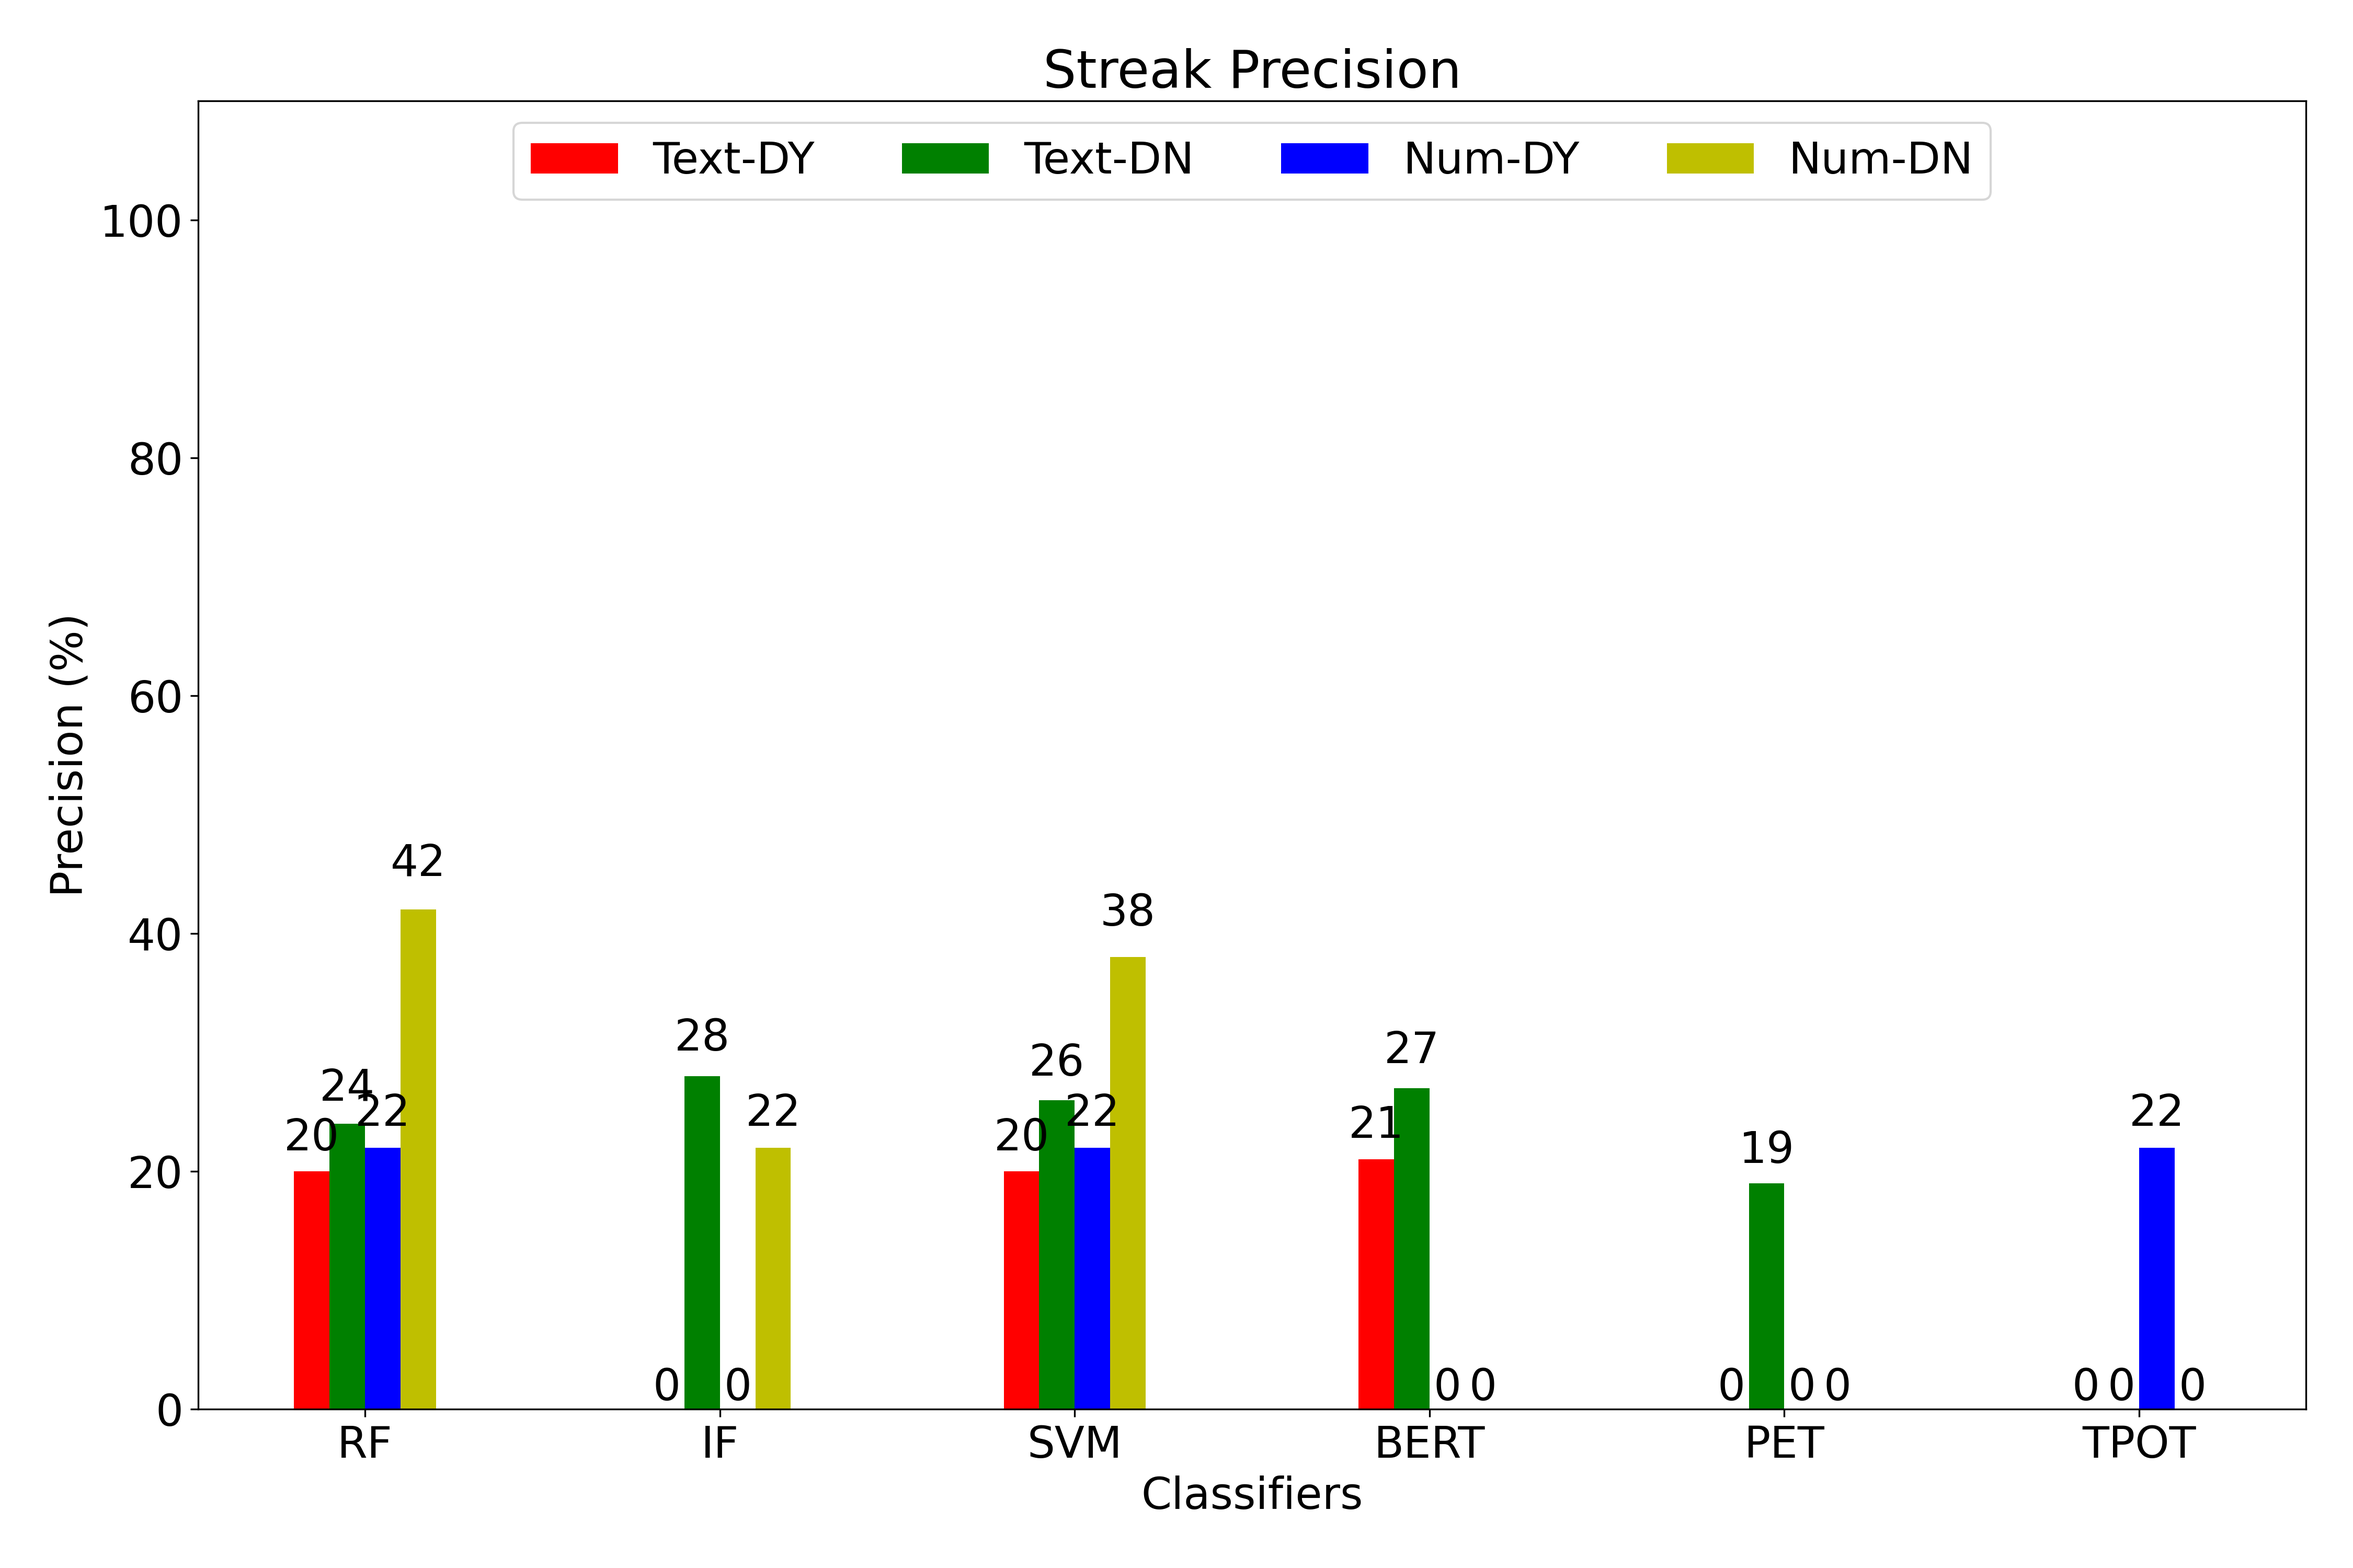
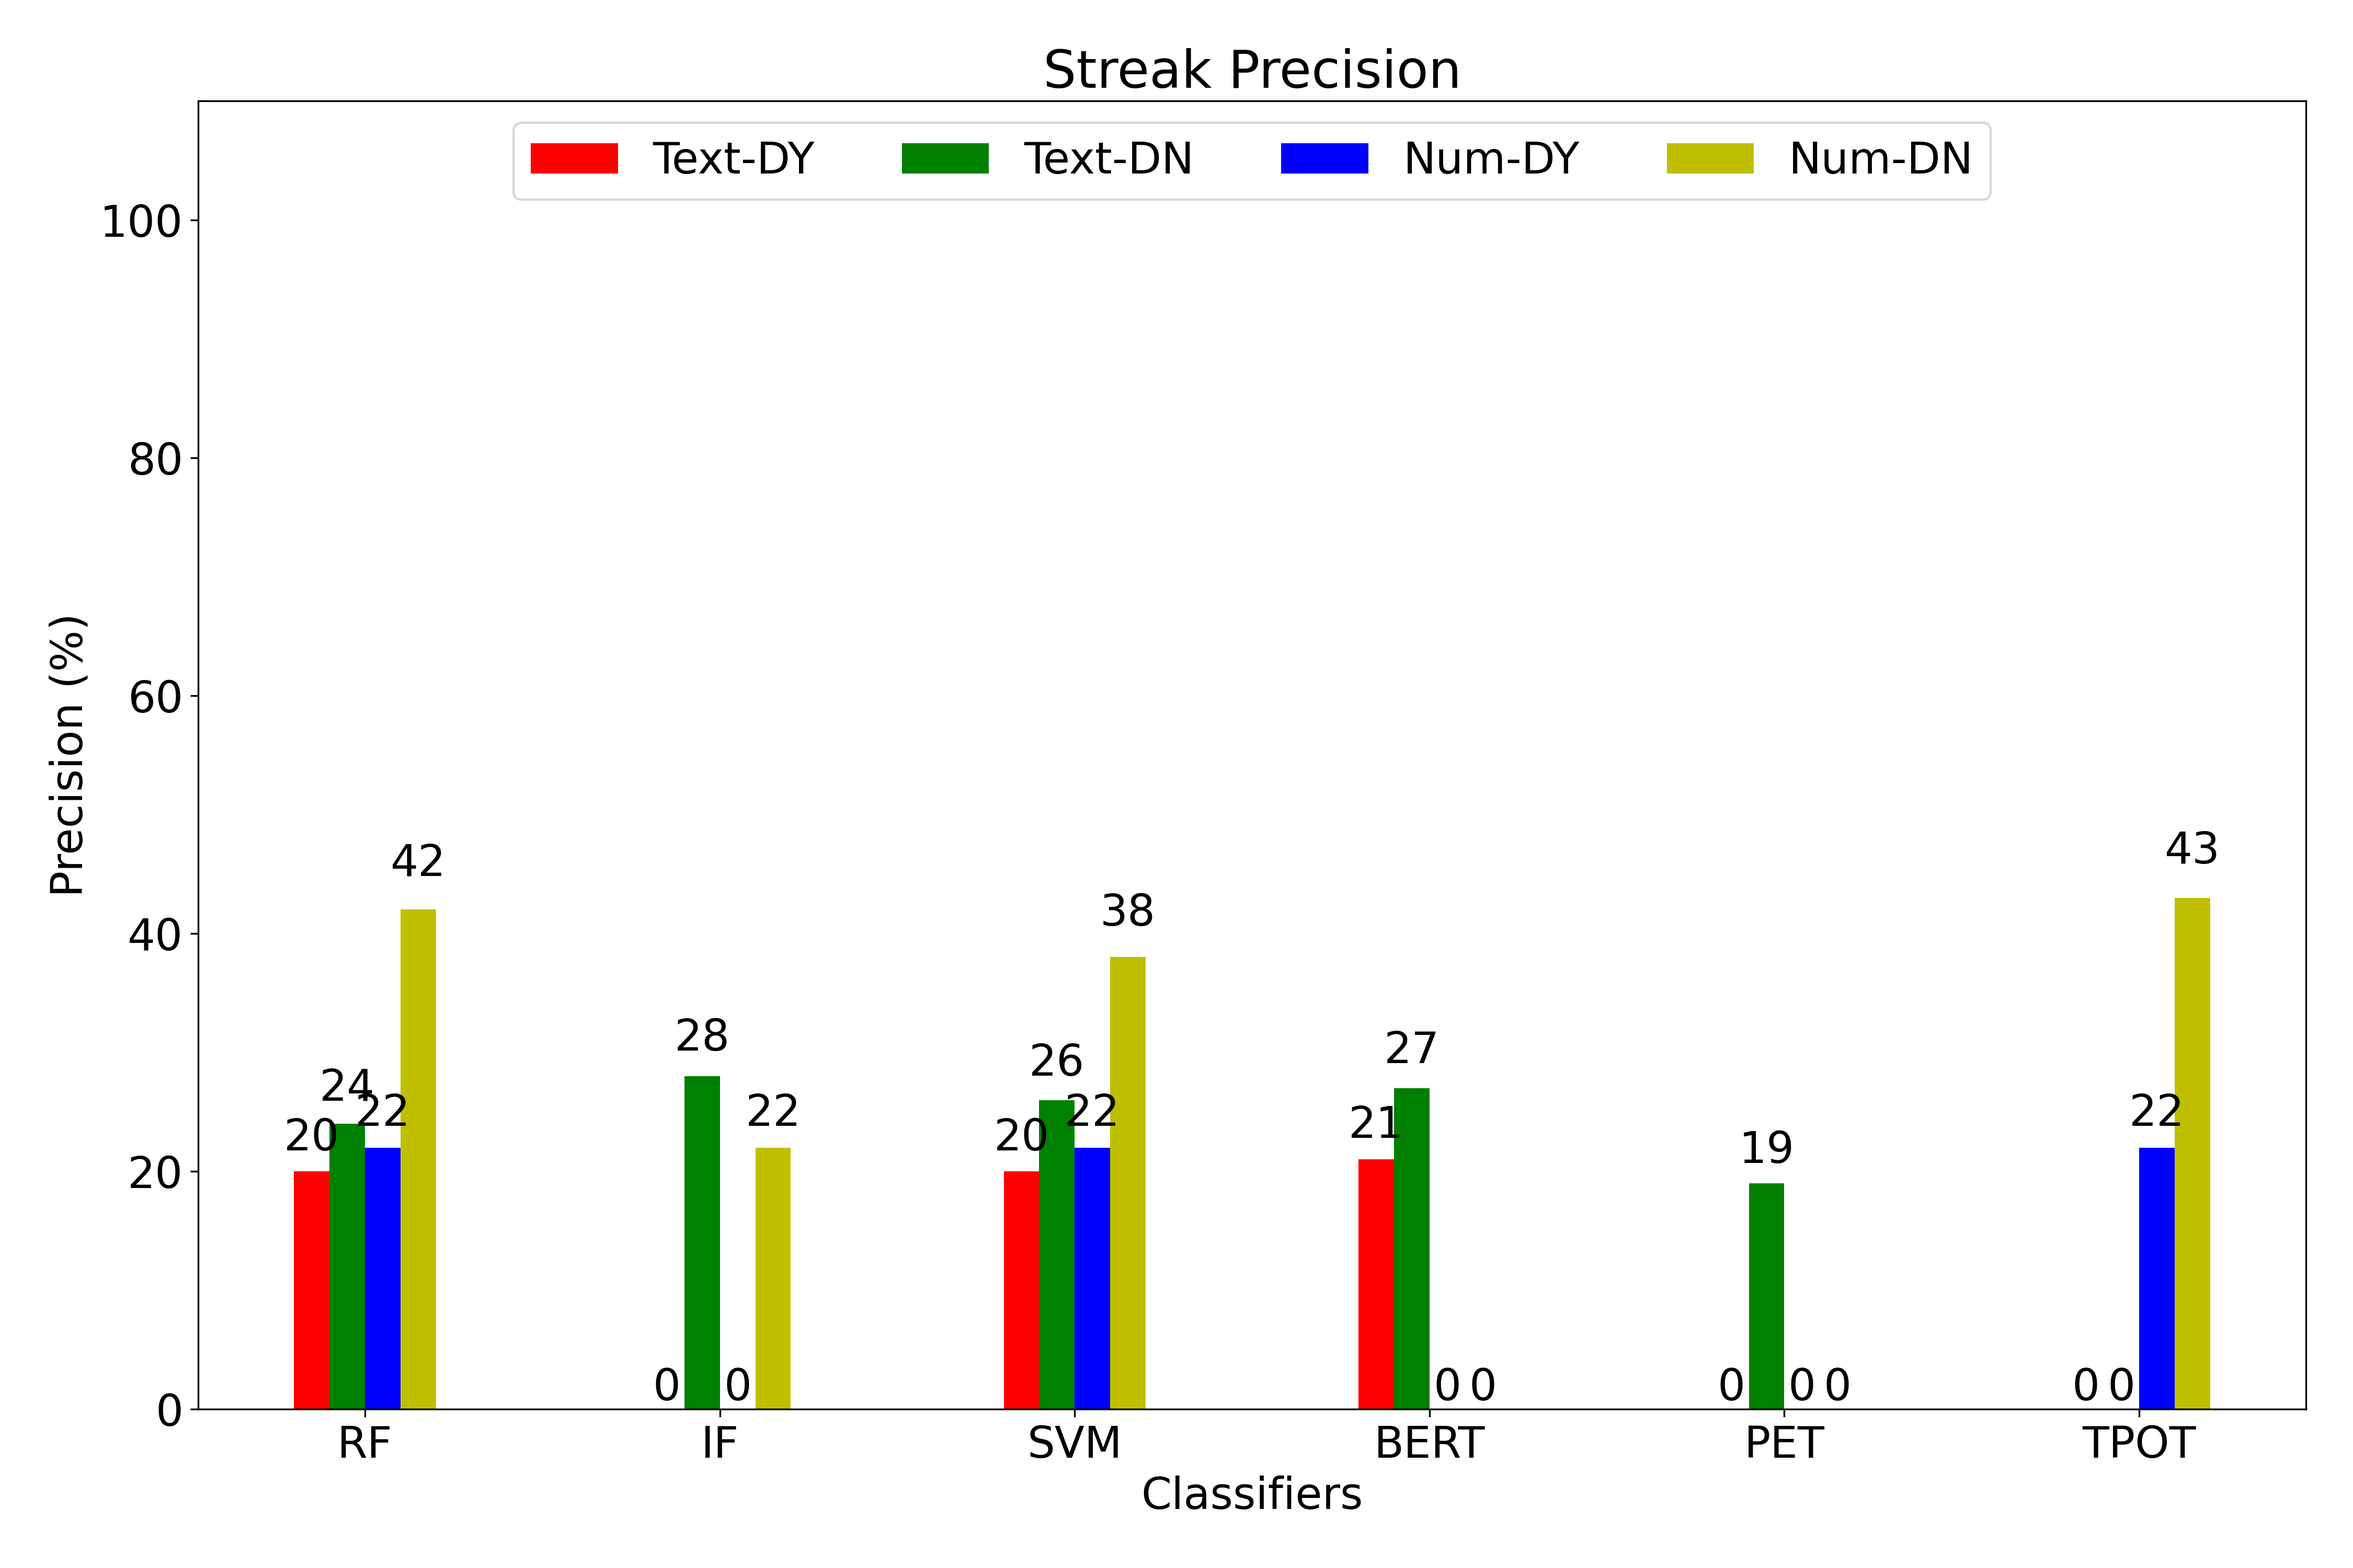
new res for tpot no downsampling

Changed region(s): [[0.9022, 0.558, 0.9644, 0.899]]

diff --git a/team_themes.py b/team_themes.py
@@ -31,18 +31,24 @@ class TeamStreak:
             ftrs.append(0)
         return ftrs
 
-    def aug_text_ftr(self, streak, broken_streak, team_name):
+    def aug_train_ftrs(self, streak, broken_streak, team_name, ftr_type='text'):
         streak1 = {'type': streak['type'], 'count': streak['count'] + 1}
         broken_streak1 = {'type': broken_streak['type'], 'count': broken_streak['count'] + 1} if broken_streak else {}
-        aug_text1 = self.team_streak_text_ftr(streak1, broken_streak1, team_name)
+        if ftr_type == 'text':
+            aug_ftrs1 = self.team_streak_text_ftr(streak1, broken_streak1, team_name)
+        elif ftr_type == 'num':
+            aug_ftrs1 = self.team_streak_num_ftr(streak1, broken_streak1)
         streak2 = {'type': streak['type'], 'count': streak['count'] - 1}
         broken_streak2 = {'type': broken_streak['type'], 'count': broken_streak['count'] - 1} if broken_streak else {}
-        aug_text2 = self.team_streak_text_ftr(streak2, broken_streak2, team_name)
-        return [aug_text1, aug_text2]
+        if ftr_type == 'text':
+            aug_ftrs2 = self.team_streak_text_ftr(streak2, broken_streak2, team_name)
+        elif ftr_type == 'num':
+            aug_ftrs2 = self.team_streak_num_ftr(streak2, broken_streak2)
+        return [aug_ftrs1, aug_ftrs2]
 
     def get_theme_train_val_test_data(self):
         all_data = {'train': [], 'validation': [], 'test': []}
-        augmented_train_texts = []
+        augmented_train_ftrs = []
 
         for part in ['train',  'validation', 'test']:
             print(f'processing {part}...')
@@ -84,8 +90,8 @@ class TeamStreak:
                 elif self.ftr_type == 'num':
                     hftrs = self.team_streak_num_ftr(hstreak, hbroken_streak)
 
-                if self.ftr_type == 'text' and part == 'train':
-                    augmented_train_texts.extend(self.aug_text_ftr(hstreak, hbroken_streak, hteam))
+                if part == 'train':
+                    augmented_train_ftrs.extend(self.aug_train_ftrs(hstreak, hbroken_streak, hteam, ftr_type=self.ftr_type))
 
                 vstreak = streak_info[gem_id]['vis']
                 vbroken_streak = {}
@@ -98,7 +104,7 @@ class TeamStreak:
                     vftrs = self.team_streak_num_ftr(vstreak, vbroken_streak)
 
                 if self.ftr_type == 'text' and part == 'train':
-                    augmented_train_texts.extend(self.aug_text_ftr(vstreak, vbroken_streak, vteam))
+                    augmented_train_ftrs.extend(self.aug_train_ftrs(vstreak, vbroken_streak, vteam, ftr_type=self.ftr_type))
 
                 if htflag == True:
                     part_data['ftrs'].append(hftrs)
@@ -116,7 +122,7 @@ class TeamStreak:
 
             all_data[part] = part_data
 
-        return all_data, augmented_train_texts
+        return all_data, augmented_train_ftrs
 
 
 class TeamStanding:
@@ -180,7 +186,7 @@ class TeamStanding:
 
         return list(ftr_vector.values())
 
-    def aug_text_ftr(self, info):
+    def aug_train_ftrs(self, info, ftr_type='text'):
         info1 = info.copy()
         info2 = info.copy()
         info1['current']['standing'] = info['current']['standing'] + 1
@@ -193,11 +199,14 @@ class TeamStanding:
             info2['next_1']['standing'] = info2['next_1']['standing'] - 1
         if 'prev_1' in info2:
             info2['prev_1']['standing'] = info2['prev_1']['standing'] - 1
-        return [self.team_standing_text_ftr(info1), self.team_standing_text_ftr(info2)]
+        if ftr_type == 'text':
+            return [self.team_standing_text_ftr(info1), self.team_standing_text_ftr(info2)]
+        elif ftr_type == 'num':
+            return [self.team_standing_num_ftr(info1), self.team_standing_num_ftr(info2)]
 
     def get_theme_train_val_test_data(self):
         all_data = {'train': [], 'validation': [], 'test': []}
-        augmented_train_texts = []
+        augmented_train_ftrs = []
         for part in ['train', 'validation', 'test']:
             if part == 'train':
                 mentions = self.train_mentions
@@ -217,16 +226,17 @@ class TeamStanding:
                 if self.ftr_type == 'text':
                     ftrs.append(self.team_standing_text_ftr(inf['home']))
                     ftrs.append(self.team_standing_text_ftr(inf['vis']))
-                    if part == 'train':
-                        augmented_train_texts.extend(self.aug_text_ftr(inf['home']))
-                        augmented_train_texts.extend(self.aug_text_ftr(inf['vis']))
                 elif self.ftr_type == 'num':
                     ftrs.append(self.team_standing_num_ftr(inf['home']))
                     ftrs.append(self.team_standing_num_ftr(inf['vis']))
+
+                if part == 'train':
+                    augmented_train_ftrs.extend(self.aug_train_ftrs(inf['home'], ftr_type=self.ftr_type))
+                    augmented_train_ftrs.extend(self.aug_train_ftrs(inf['vis'], ftr_type=self.ftr_type))
 
                 lab = 1 if gem_id in mentions else 0
                 labs.append(lab)
                 labs.append(lab)
 
             all_data[part] = {'ftrs': ftrs, 'labs': labs}
-        return all_data, augmented_train_texts
+        return all_data, augmented_train_ftrs

diff --git a/utils.py b/utils.py
@@ -89,10 +89,11 @@ class Classifier:
 
 
 class TpotThemeClassifier:
-    def __init__(self, theme='streak') -> None:
+    def __init__(self, theme='streak', downsample=True) -> None:
         self.theme = theme
+        self.down = downsample
     
-    def train_streak(self, X, y):
+    def train_streak_down(self, X, y):
         print('Training streak classifier...')
         from sklearn.ensemble import RandomForestClassifier
 
@@ -103,7 +104,7 @@ class TpotThemeClassifier:
         exported_pipeline.fit(X, y)
         return exported_pipeline
 
-    def train_standing(self, X, y):
+    def train_standing_down(self, X, y):
         print('Training standing classifier...')
         from sklearn.cluster import FeatureAgglomeration
         from sklearn.ensemble import ExtraTreesClassifier
@@ -125,10 +126,41 @@ class TpotThemeClassifier:
         exported_pipeline.fit(X, y)
         return exported_pipeline
 
+    def train_streak(self, X, y):
+        from sklearn.ensemble import RandomForestClassifier
+
+        exported_pipeline = RandomForestClassifier(bootstrap=False, criterion="gini", max_features=0.4, min_samples_leaf=18, min_samples_split=20, n_estimators=100)
+        # Fix random state in exported estimator
+        if hasattr(exported_pipeline, 'random_state'):
+            setattr(exported_pipeline, 'random_state', 42)
+
+        exported_pipeline.fit(X, y)
+        return exported_pipeline
+
+    def train_standing(self, X, y):
+        from sklearn.decomposition import FastICA
+        from sklearn.neighbors import KNeighborsClassifier
+        from sklearn.pipeline import make_pipeline
+        from tpot.export_utils import set_param_recursive
+
+        exported_pipeline = make_pipeline(
+            FastICA(tol=0.35000000000000003),
+            KNeighborsClassifier(n_neighbors=89, p=1, weights="uniform")
+        )
+        # Fix random state for all the steps in exported pipeline
+        set_param_recursive(exported_pipeline.steps, 'random_state', 42)
+
+        exported_pipeline.fit(X, y)
+        return exported_pipeline
+
     def train(self, X, y):
-        if self.theme == 'streak':
+        if self.theme == 'streak' and self.down == True:
+            return self.train_streak_down(X, y)
+        elif self.theme == 'streak' and self.down == False:
             return self.train_streak(X, y)
-        elif self.theme == 'standing':
+        elif self.theme == 'standing' and self.down == True:
+            return self.train_standing_down(X, y)
+        elif self.theme == 'standing' and self.down == False:
             return self.train_standing(X, y)
 
     def predict(self, model, X):

diff --git a/main.py b/main.py
@@ -56,7 +56,11 @@ def main(FTR='text', CLF='rf', THEME='streak', DOWNSAMPLE=False, SAVE_TO_DISK=Fa
 
     if AUGMENT:
         print(f'Saving {len(aug_texts)} augmented data!!!')
-        pd.DataFrame({"text": aug_texts, 'labels': [0]*len(aug_texts)}).to_csv(f'data/{THEME}/augmented_text.csv', index=False, header=False)
+        if FTR == 'text':
+            pd.DataFrame({"text": aug_texts, 'labels': [0]*len(aug_texts)}).to_csv(f'data/{THEME}/augmented_text.csv', index=False, header=False)
+        elif FTR == 'num':
+            # pd.DataFrame({"num": aug_texts, 'labels': [0]*len(aug_texts)}).to_csv(f'data/{THEME}/augmented_num.csv', index=False, header=False)
+            pass
         return
 
     if CLF == 'bert' or CLF == 'pet':
@@ -94,8 +98,7 @@ def main(FTR='text', CLF='rf', THEME='streak', DOWNSAMPLE=False, SAVE_TO_DISK=Fa
         if CLF == 'tpot':
             print('This is using tpot model...')
             assert FTR == 'num', 'TPOT only works with numerical features'
-            assert DOWNSAMPLE == True, 'TPOT only works with downsampling (as of now)'
-            clf_obj = TpotThemeClassifier(theme=THEME)
+            clf_obj = TpotThemeClassifier(theme=THEME, downsample=DOWNSAMPLE)
             dl_obj = DataLoader(ftr_type=FTR, downsample=DOWNSAMPLE)
         else:
             clf_obj = Classifier(CLF)

diff --git a/tpot_exports/standing.py b/tpot_exports/standing.py
@@ -1,0 +1,24 @@
+import numpy as np
+import pandas as pd
+from sklearn.decomposition import FastICA
+from sklearn.model_selection import train_test_split
+from sklearn.neighbors import KNeighborsClassifier
+from sklearn.pipeline import make_pipeline
+from tpot.export_utils import set_param_recursive
+
+# NOTE: Make sure that the outcome column is labeled 'target' in the data file
+tpot_data = pd.read_csv('PATH/TO/DATA/FILE', sep='COLUMN_SEPARATOR', dtype=np.float64)
+features = tpot_data.drop('target', axis=1)
+training_features, testing_features, training_target, testing_target = \
+            train_test_split(features, tpot_data['target'], random_state=42)
+
+# Average CV score on the training set was: 0.8560975609756097
+exported_pipeline = make_pipeline(
+    FastICA(tol=0.35000000000000003),
+    KNeighborsClassifier(n_neighbors=89, p=1, weights="uniform")
+)
+# Fix random state for all the steps in exported pipeline
+set_param_recursive(exported_pipeline.steps, 'random_state', 42)
+
+exported_pipeline.fit(training_features, training_target)
+results = exported_pipeline.predict(testing_features)

diff --git a/tpot_exports/streak.py b/tpot_exports/streak.py
@@ -1,0 +1,19 @@
+import numpy as np
+import pandas as pd
+from sklearn.ensemble import RandomForestClassifier
+from sklearn.model_selection import train_test_split
+
+# NOTE: Make sure that the outcome column is labeled 'target' in the data file
+tpot_data = pd.read_csv('PATH/TO/DATA/FILE', sep='COLUMN_SEPARATOR', dtype=np.float64)
+features = tpot_data.drop('target', axis=1)
+training_features, testing_features, training_target, testing_target = \
+            train_test_split(features, tpot_data['target'], random_state=42)
+
+# Average CV score on the training set was: 0.7700542005420055
+exported_pipeline = RandomForestClassifier(bootstrap=False, criterion="gini", max_features=0.4, min_samples_leaf=18, min_samples_split=20, n_estimators=100)
+# Fix random state in exported estimator
+if hasattr(exported_pipeline, 'random_state'):
+    setattr(exported_pipeline, 'random_state', 42)
+
+exported_pipeline.fit(training_features, training_target)
+results = exported_pipeline.predict(testing_features)

diff --git a/plot_res.py b/plot_res.py
@@ -63,7 +63,7 @@ for theme in ['streak', 'standing']:
                     clf_results = empty_js
                 elif (clf == 'pet' and ftr == 'num') or (clf == 'pet' and do_down == 'yes'):
                     clf_results = empty_js
-                elif (clf == 'tpot' and ftr == 'text') or (clf == 'tpot' and do_down == 'no'):
+                elif (clf == 'tpot' and ftr == 'text'):
                     clf_results = empty_js
                 else:
                     js = json.load(open(f"results/{theme}/{clf}-{ftr}-down_{do_down}.json"))
